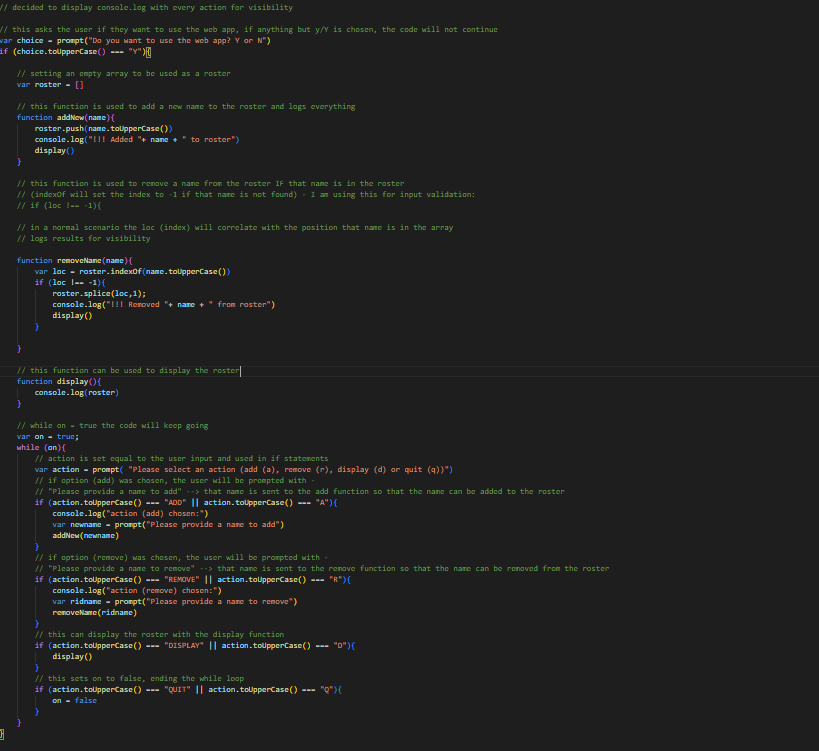
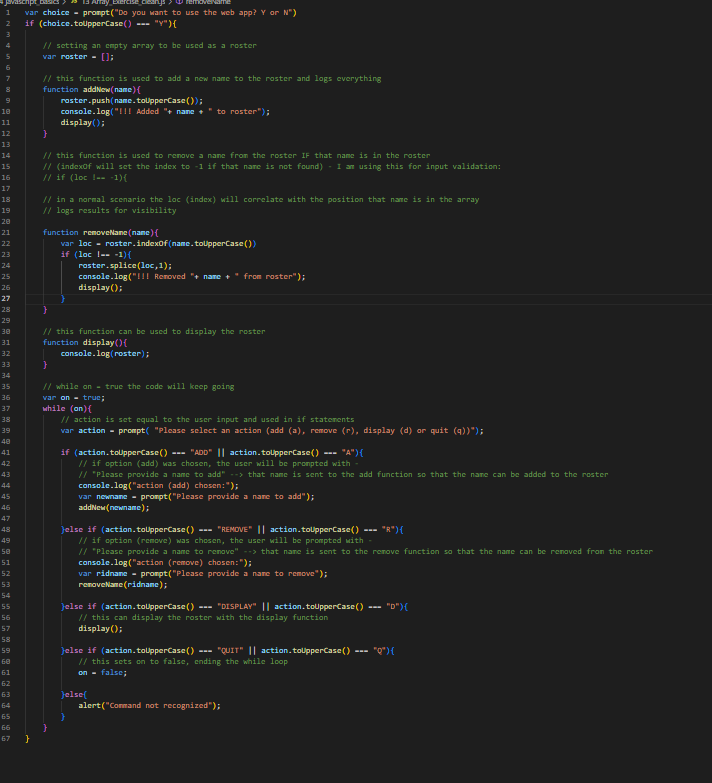
started working on roster problem exercise

diff --git a/04 javascript_basics/13 Array_Exercise.js b/04 javascript_basics/13 Array_Exercise.js
@@ -1,46 +1,14 @@
-// PART 4 ARRAY EXERCISE
-// This is  a .js file with commented hints, its optional to use this.
-
-// Create Empty Student Roster Array
-
-// Create the functions for the tasks
-
-// ADD A NEW STUDENT
-
-// Create a function called addNew that takes in a name
-// and uses .push to add a new student to the array
-
-// REMOVE STUDENT
-
-// Create a function called remove that takes in a name
-// Finds its index location, then removes that name from the roster
-
-// HINT: http://stackoverflow.com/questions/5767325/how-to-remove-a-particular-element-from-an-array-in-javascript
-//
-
-// DISPLAY ROSTER
-
-// Create a function called display that prints out the roster to the console.
-
-// Start by asking if they want to use the web app
-
-// Now create a while loop that keeps asking for an action (add,remove, display or quit)
-// Use if and else if statements to execute the correct function for each command.
-
-// decided to display console.log with every action for visibility
-
-// this asks the user if they want to use the web app, if anything but y/Y is chosen, the code will not continue
 var choice = prompt("Do you want to use the web app? Y or N")
 if (choice.toUpperCase() === "Y"){
     
     // setting an empty array to be used as a roster
-    var roster = []
+    var roster = [];
 
     // this function is used to add a new name to the roster and logs everything
     function addNew(name){
-        roster.push(name.toUpperCase())
-        console.log("!!! Added "+ name + " to roster")
-        display()
+        roster.push(name.toUpperCase());
+        console.log("!!! Added "+ name + " to roster");
+        display();
     }
 
     // this function is used to remove a name from the roster IF that name is in the roster 
@@ -54,43 +22,46 @@ if (choice.toUpperCase() === "Y"){
         var loc = roster.indexOf(name.toUpperCase())
         if (loc !== -1){
             roster.splice(loc,1);
-            console.log("!!! Removed "+ name + " from roster")
-            display()
+            console.log("!!! Removed "+ name + " from roster");
+            display();
         }
-        
     }
 
     // this function can be used to display the roster
     function display(){
-        console.log(roster)
+        console.log(roster);
     }
 
     // while on = true the code will keep going
     var on = true;
     while (on){
         // action is set equal to the user input and used in if statements
-        var action = prompt( "Please select an action (add (a), remove (r), display (d) or quit (q))")
-        // if option (add) was chosen, the user will be prompted with - 
-        // "Please provide a name to add" --> that name is sent to the add function so that the name can be added to the roster
+        var action = prompt( "Please select an action (add (a), remove (r), display (d) or quit (q))");
+        
         if (action.toUpperCase() === "ADD" || action.toUpperCase() === "A"){
-            console.log("action (add) chosen:")
-            var newname = prompt("Please provide a name to add")
-            addNew(newname)
-        }
-        // if option (remove) was chosen, the user will be prompted with - 
-        // "Please provide a name to remove" --> that name is sent to the remove function so that the name can be removed from the roster
-        if (action.toUpperCase() === "REMOVE" || action.toUpperCase() === "R"){
-            console.log("action (remove) chosen:")
-            var ridname = prompt("Please provide a name to remove")
-            removeName(ridname)
-        }
-        // this can display the roster with the display function
-        if (action.toUpperCase() === "DISPLAY" || action.toUpperCase() === "D"){
-            display()
-        }
-        // this sets on to false, ending the while loop
-        if (action.toUpperCase() === "QUIT" || action.toUpperCase() === "Q"){
-            on = false
+            // if option (add) was chosen, the user will be prompted with - 
+            // "Please provide a name to add" --> that name is sent to the add function so that the name can be added to the roster
+            console.log("action (add) chosen:");
+            var newname = prompt("Please provide a name to add");
+            addNew(newname);
+
+        }else if (action.toUpperCase() === "REMOVE" || action.toUpperCase() === "R"){
+            // if option (remove) was chosen, the user will be prompted with - 
+            // "Please provide a name to remove" --> that name is sent to the remove function so that the name can be removed from the roster
+            console.log("action (remove) chosen:");
+            var ridname = prompt("Please provide a name to remove");
+            removeName(ridname);
+
+        }else if (action.toUpperCase() === "DISPLAY" || action.toUpperCase() === "D"){
+            // this can display the roster with the display function
+            display();
+
+        }else if (action.toUpperCase() === "QUIT" || action.toUpperCase() === "Q"){
+            // this sets on to false, ending the while loop
+            on = false;
+
+        }else{
+            alert("Command not recognized");
         }
     }
 }
